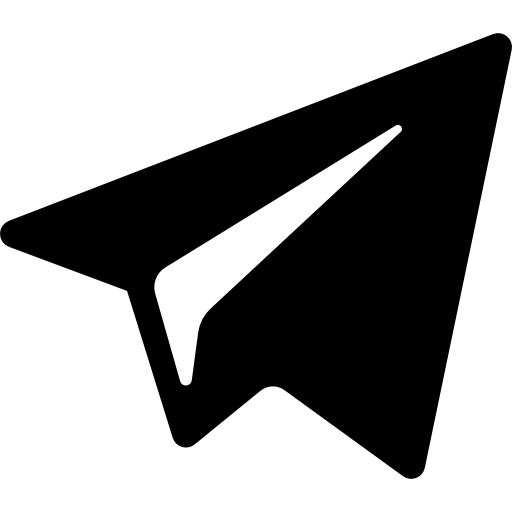
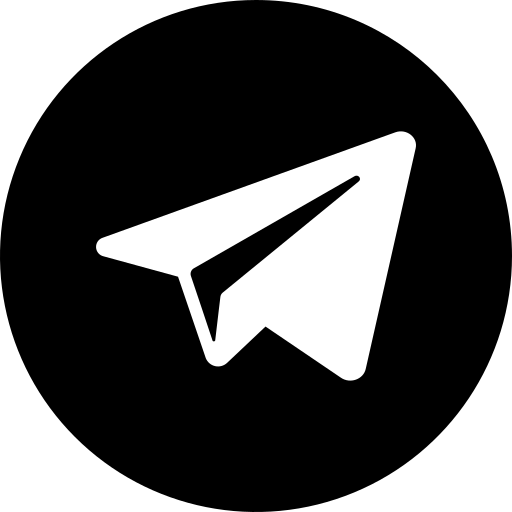
demo

diff --git a/style.css b/style.css
@@ -544,47 +544,26 @@ padding-left: 845px;
 display: flex;
 column-gap: 20px;
 }
-.img1{
-background-image: url(.images/tele1.png);
-width: 50px;
-height: 50px;
-background-color: #D3D3D3;
-border-radius: 15px;
+.img1 img{
+  width: 50px;
+  height: 50px;
+  background-color: rgb(255, 255, 255);
+  border-radius: 50px;
+  border: 2px  white solid ;
 }
-.img1:hover{
-background-image: url(./images/tele2.png);
-width: 50px;
-height: 50px;
-background-repeat: no-repeat;
-background-size: cover;
+.img2 img{
+  width: 50px;
+  height: 50px;
+  background-color: rgb(255, 255, 255);
+  border-radius: 50px;
+  border: 2px  white solid ;
 }
-.img2{
-background-image: url();
-width: 50px;
-height: 50px;
-background-color: #D3D3D3;
-border-radius: 15px;
-}
-.img2:hover{
-background-image: url();
-width: 50px;
-height: 50px;
-background-repeat: no-repeat;
-background-size: cover;
-}
-.img3{
-background-image: url(./images/git1.png);
-width: 50px;
-height: 50px;
-background-color: #D3D3D3;
-border-radius: 15px;
-}
-.img3:hover{
-background-image: url(./images/git2.png);
-width: 50px;
-height: 50px;
-background-repeat: no-repeat;
-background-size: cover;
+.img3 img{
+  width: 50px;
+  height: 50px;
+  background-color: rgb(255, 255, 255);
+  border-radius: 50px;
+  border: 2px  white solid ;
 }
 .contact_bottom p{
 padding-top: 40px;

diff --git a/index.html b/index.html
@@ -131,11 +131,11 @@
             </div>
             <div class="contact_bottom">
                 <div class="my_contact_icon">
-                    <a href="https://t.me/Mikshe1n" target="_blank" class="img1"></a>
-                    <a href="#" target="_blank" class="img2"></a>
-                    <a href="https://github.com/Mikshe1n" target="_blank" class="img3"></a>
+                    <a href="https://t.me/Mikshe1n" target="_blank" class="img1"><img src="images/tele1.png" alt=""></a>
+                    <a href="https://hh.ru/applicant/settings?from=header_new&hhtmFromLabel=header_new&hhtmFrom=main" target="_blank" class="img2"><img src="images/hh.jpg" alt=""></a>
+                    <a href="https://github.com/Mikshe1n" target="_blank" class="img3"><img src="images/git1.png" alt=""></a>
                 </div>
-                <p>Ilyichev Mikhail <span>©2022</span></p>
+                <p>Ilyichev Mikhail <span>©2023</span></p>
             </div>
     </div>
         <script src="https://cdnjs.cloudflare.com/ajax/libs/jquery/3.3.1/jquery.min.js"></script>
